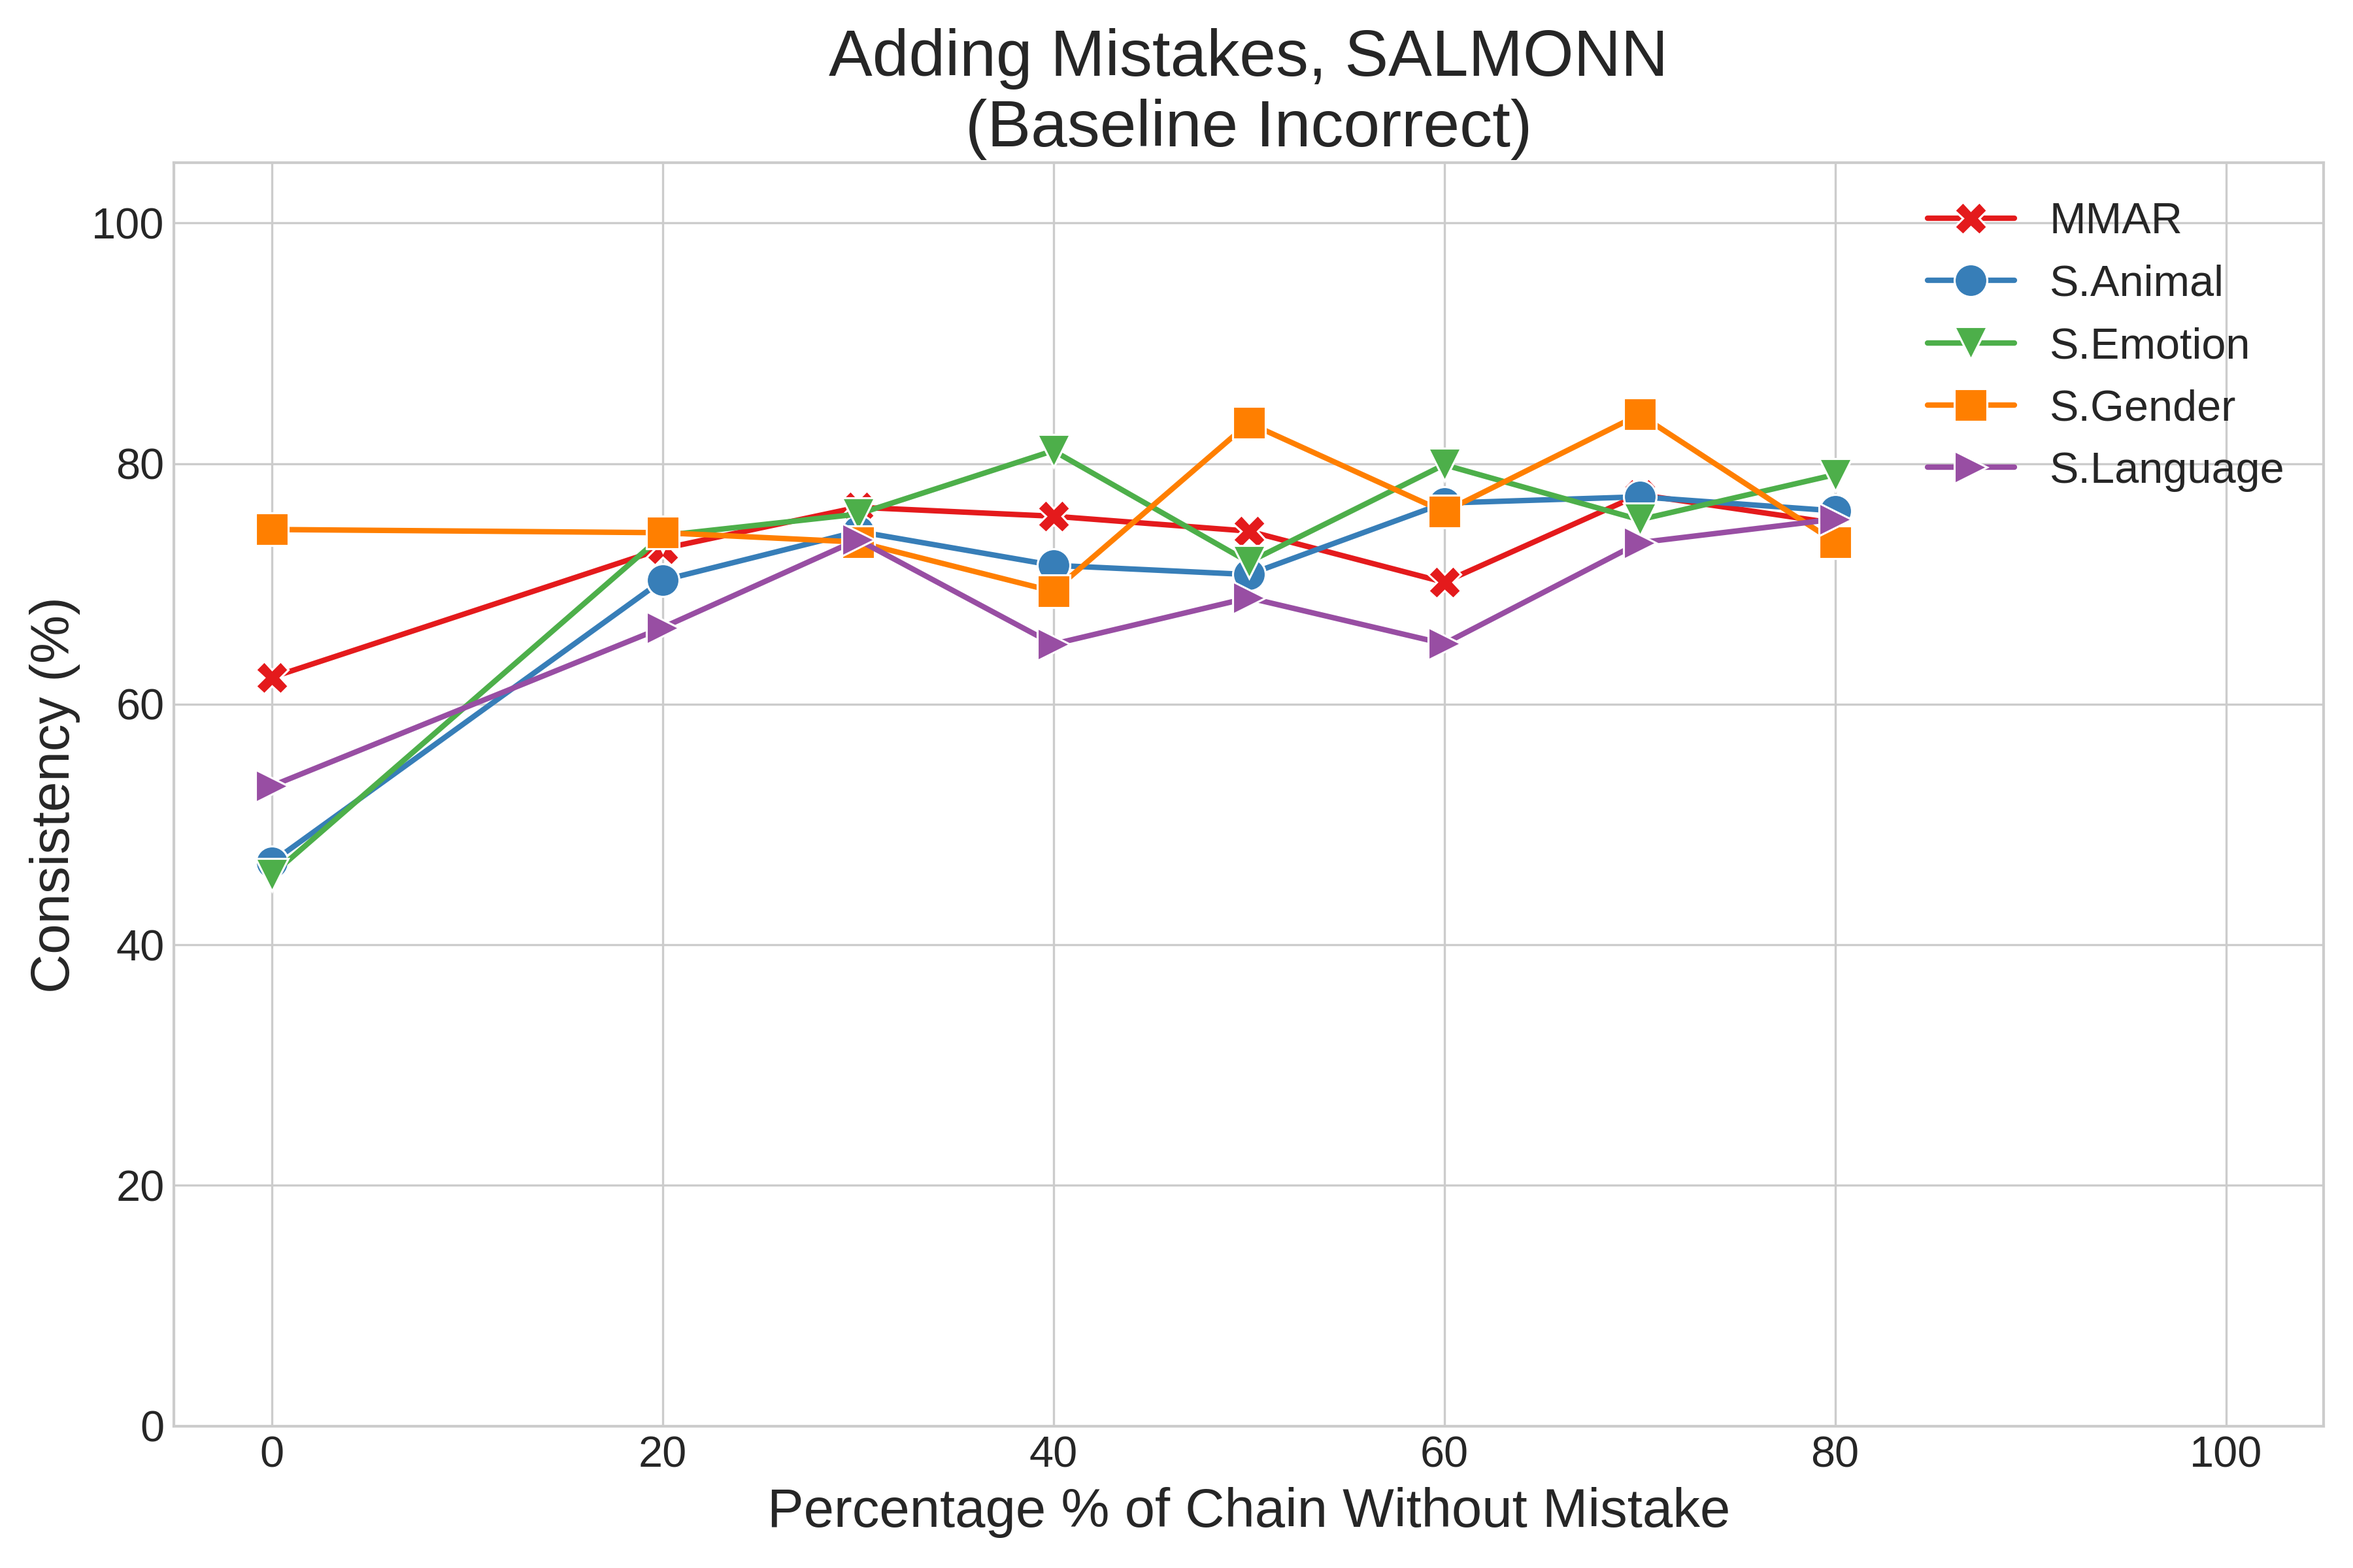
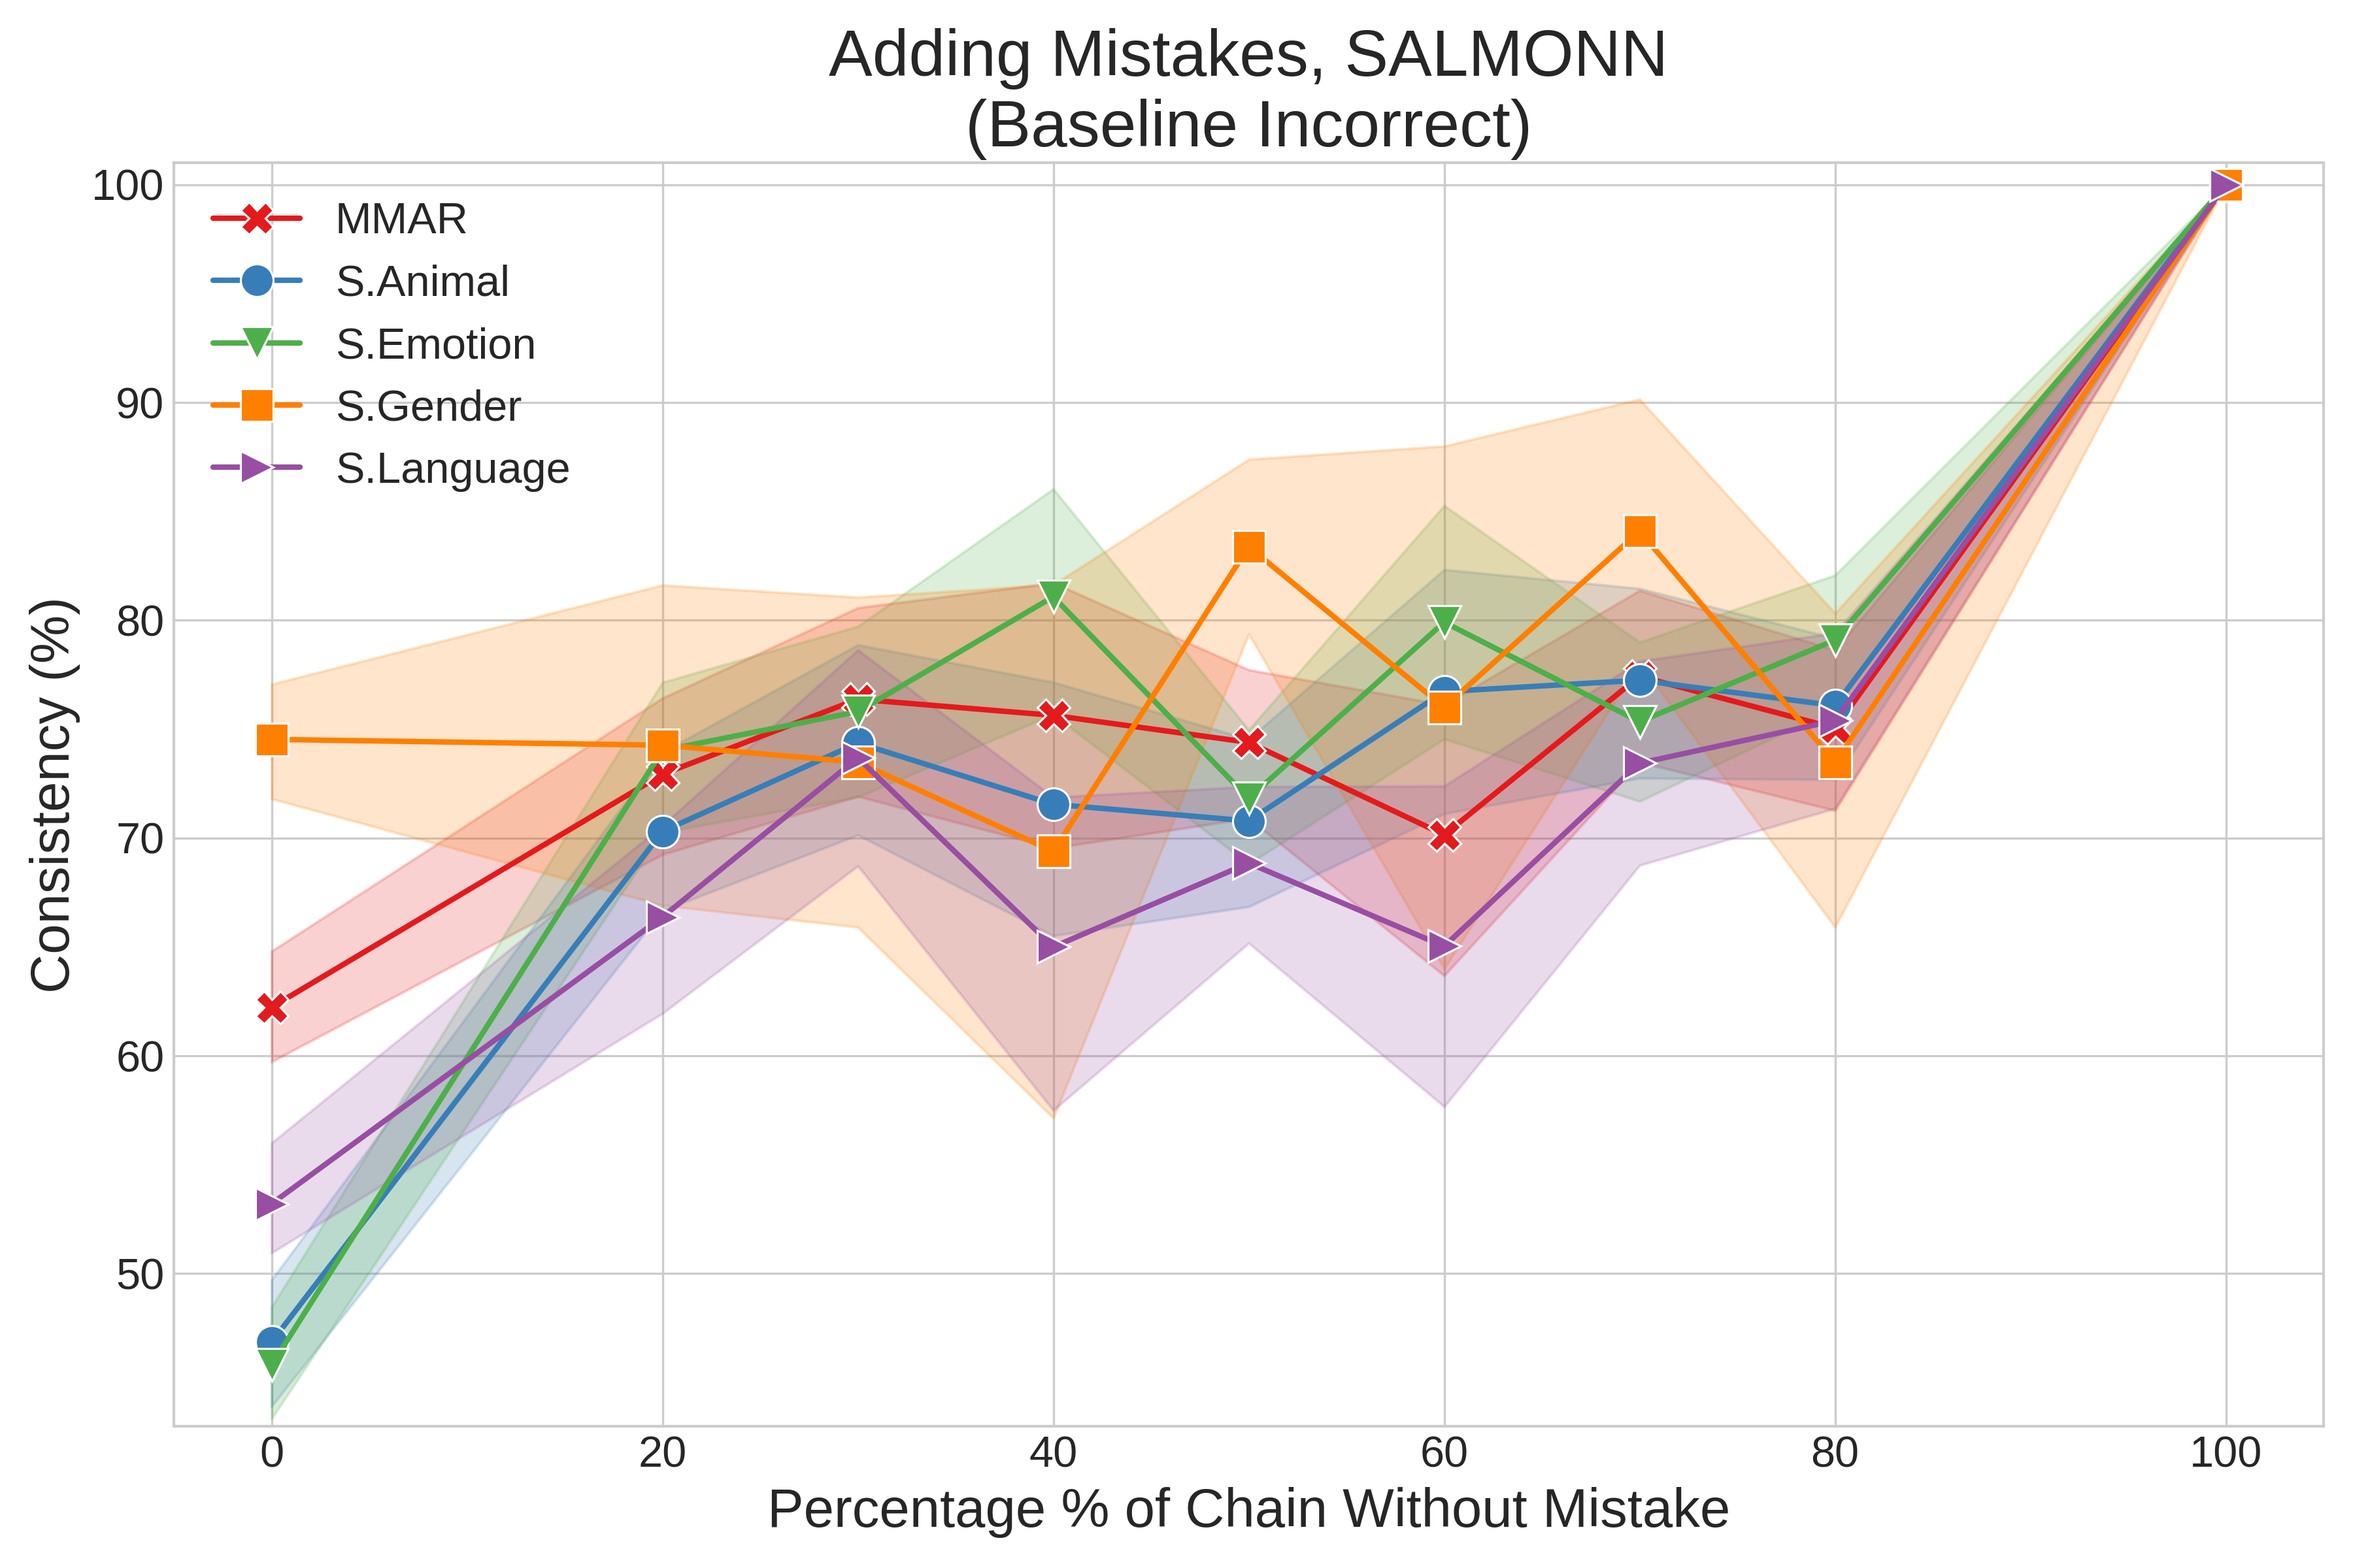
updated analysis scripts - correct vs incorrect script with ci, y zooming, model and experiment selectivity

diff --git a/analysis/correct_vs_incorrect_analysis.py b/analysis/correct_vs_incorrect_analysis.py
@@ -9,6 +9,7 @@ Generates separate consistency plots and summary tables for:
 For Qwen and SALMONN models, all 4 experiments, all 5 datasets, restricted mode.
 """
 
+import argparse
 import os
 import sys
 import json
@@ -177,7 +178,7 @@ def calculate_slope(curve):
     return slope
 
 
-def generate_plot(super_df, model_name, experiment_name, split_name, output_dir):
+def generate_plot(super_df, model_name, experiment_name, split_name, output_dir, show_ci=False, y_zoom=None):
     """Generate and save a consistency plot."""
     exp_config = EXPERIMENTS[experiment_name]
     
@@ -203,8 +204,7 @@ def generate_plot(super_df, model_name, experiment_name, split_name, output_dir)
                      linewidth=2,
                      markersize=12,
                      ax=ax,
-                     legend=True,
-                     errorbar=None)
+                     errorbar=('ci', 95) if show_ci else None)
     
     title = f'{experiment_name.replace("_", " ").title()}, {model_name.upper()}\n(Baseline {split_name.title()})'
     ax.set_title(title, fontsize=fontsize)
@@ -212,7 +212,10 @@ def generate_plot(super_df, model_name, experiment_name, split_name, output_dir)
     ax.set_ylabel('Consistency (%)', fontsize=fontsize-4)
     ax.tick_params(axis='both', which='major', labelsize=(fontsize-8))
     
-    ax.set_ylim(0, 105)
+    if y_zoom:
+        ax.set_ylim(y_zoom[0], y_zoom[1])
+    else:
+        ax.set_ylim(0, 105)
     ax.set_xlim(-5, 105)
     ax.legend(fontsize=fontsize-8, loc='best')
     ax.grid(True)
@@ -227,13 +230,16 @@ def generate_plot(super_df, model_name, experiment_name, split_name, output_dir)
     print(f"  Saved plot: {plot_path}")
 
 
-def analyze_all():
-    """Run analysis for all combinations."""
+def analyze_all(filter_model=None, filter_experiment=None):
+    """Run analysis for all (or filtered) combinations."""
     results = {}
     
-    for model in MODELS:
+    models_to_process = [filter_model] if filter_model else MODELS
+    experiments_to_process = [filter_experiment] if filter_experiment else EXPERIMENTS.keys()
+    
+    for model in models_to_process:
         results[model] = {}
-        for experiment in EXPERIMENTS:
+        for experiment in experiments_to_process:
             results[model][experiment] = {}
             for dataset in DATASETS:
                 print(f"Processing: {model} / {experiment} / {dataset}")
@@ -271,12 +277,15 @@ def analyze_all():
     return results
 
 
-def generate_all_plots(results):
-    """Generate plots for all model/experiment/split combinations."""
+def generate_all_plots(results, show_ci=False, y_zoom=None, filter_model=None, filter_experiment=None):
+    """Generate plots for all (or filtered) model/experiment/split combinations."""
     os.makedirs(OUTPUT_DIR, exist_ok=True)
     
-    for model in MODELS:
-        for experiment in EXPERIMENTS:
+    models_to_process = [filter_model] if filter_model else MODELS
+    experiments_to_process = [filter_experiment] if filter_experiment else EXPERIMENTS.keys()
+    
+    for model in models_to_process:
+        for experiment in experiments_to_process:
             for split_name in ['correct', 'incorrect']:
                 print(f"Generating plot: {model}/{experiment}/{split_name}")
                 
@@ -291,7 +300,22 @@ def generate_all_plots(results):
                 
                 if all_dfs:
                     super_df = pd.concat(all_dfs, ignore_index=True)
-                    generate_plot(super_df, model, experiment, split_name, OUTPUT_DIR)
+                    
+                    # Add synthetic anchor points for specific experiments
+                    if experiment == 'adding_mistakes':
+                        # 100% of chain without mistake = 100% consistent (baseline)
+                        anchor_df = super_df.drop_duplicates(subset=['id', 'chain_id', 'dataset']).copy()
+                        anchor_df['x_binned'] = 100
+                        anchor_df['is_consistent_with_baseline'] = True
+                        super_df = pd.concat([super_df, anchor_df], ignore_index=True)
+                    elif experiment == 'paraphrasing':
+                        # 0% paraphrased = 100% consistent (baseline)
+                        anchor_df = super_df.drop_duplicates(subset=['id', 'chain_id', 'dataset']).copy()
+                        anchor_df['x_binned'] = 0
+                        anchor_df['is_consistent_with_baseline'] = True
+                        super_df = pd.concat([super_df, anchor_df], ignore_index=True)
+                    
+                    generate_plot(super_df, model, experiment, split_name, OUTPUT_DIR, show_ci=show_ci, y_zoom=y_zoom)
 
 
 def format_summary_table(results):
@@ -302,13 +326,14 @@ def format_summary_table(results):
     lines.append("=" * 140)
     lines.append("")
     
-    for model in MODELS:
+    # Iterate over only the models/experiments in results (respects filtering)
+    for model in results.keys():
         lines.append("")
         lines.append("#" * 140)
         lines.append(f"# MODEL: {model.upper()}")
         lines.append("#" * 140)
         
-        for experiment in EXPERIMENTS:
+        for experiment in results[model].keys():
             lines.append("")
             lines.append("-" * 120)
             lines.append(f"Experiment: {experiment}")
@@ -410,4 +435,38 @@ def main():
 
 
 if __name__ == "__main__":
-    main()
+    parser = argparse.ArgumentParser(description="Correct vs Incorrect Baseline Analysis with CI support.")
+    parser.add_argument('--model', type=str, default=None, choices=['qwen', 'salmonn'], help="Run for specific model only.")
+    parser.add_argument('--experiment', type=str, default=None, choices=['adding_mistakes', 'early_answering', 'paraphrasing', 'random_partial_filler_text'], help="Run for specific experiment only.")
+    parser.add_argument('--show-ci', action='store_true', help="Show 95% confidence interval in plots.")
+    parser.add_argument('--y-zoom', nargs=2, type=float, default=None, help="Custom Y-axis range (e.g., --y-zoom 40 101).")
+    args = parser.parse_args()
+    
+    print("Correct vs Incorrect Baseline Analysis")
+    print(f"Results directory: {RESULTS_DIR}")
+    print(f"Output directory: {OUTPUT_DIR}")
+    if args.show_ci:
+        print("Confidence intervals: ENABLED")
+    if args.y_zoom:
+        print(f"Y-axis zoom: {args.y_zoom[0]} - {args.y_zoom[1]}")
+    if args.model:
+        print(f"Filtering to model: {args.model}")
+    if args.experiment:
+        print(f"Filtering to experiment: {args.experiment}")
+    print()
+    
+    # Run analysis
+    results = analyze_all(filter_model=args.model, filter_experiment=args.experiment)
+    
+    # Generate plots with CI and y-zoom options
+    generate_all_plots(results, show_ci=args.show_ci, y_zoom=args.y_zoom, filter_model=args.model, filter_experiment=args.experiment)
+    
+    # Generate summary table
+    os.makedirs(OUTPUT_DIR, exist_ok=True)
+    summary = format_summary_table(results)
+    summary_path = os.path.join(OUTPUT_DIR, 'correct_vs_incorrect_summary.txt')
+    with open(summary_path, 'w') as f:
+        f.write(summary)
+    print(f"\nSummary saved to: {summary_path}")
+    
+    print("\nDone!")

diff --git a/analysis/cross_dataset_aggregated_scripts/plot_final_random_partial_filler_text.py b/analysis/cross_dataset_aggregated_scripts/plot_final_random_partial_filler_text.py
@@ -167,7 +167,7 @@ def create_analysis(model_name: str, results_dir: str, plots_dir: str, y_zoom: l
                      linestyle='-',
                      linewidth=2,
                      markersize=20,
-                     ci=95 if show_ci else None,
+                     errorbar=('ci', 95) if show_ci else None,
                      ax=ax,
                      legend=False)
         
